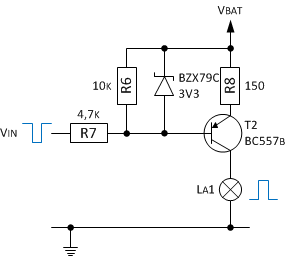
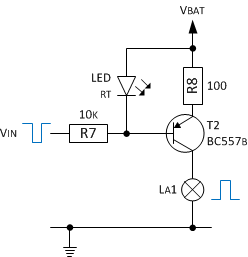
Update current limiter

Changed region(s): [[0.1976, 0.0, 1.0, 1.0], [0.0, 0.4688, 0.1976, 0.5625]]

diff --git a/pages/kontrollanzeige_1.md b/pages/kontrollanzeige_1.md
@@ -48,7 +48,7 @@ Zur Anwendung kommt ein Transistor Typ BC557B (Datenblatt: [BC560.pdf](https://w
 
 Die Steuerspannungen Vbe am Transistor bezieht sich bei einem PNP-Transistor auf die positive Versorgungsspannung und nicht auf Masse. Ein PNP immer schaltet dann durch, wenn Vbe die Schaltschwelle unterschreiten, also Vin um Vbe kleiner ist als die Spannung Ve am Emitter.
 
-Der Basiswiderstand R7 berechnet sich aus (Vbat-Vbe) / Ib. Etwas versteckt bei den Daten und der Kennlinie zu Vce(sat) (der Kollektor-Emitter-Sättigungsspannung) findet man eine Referenzwert für die Sättigung von Ic = 20*Ib. D.h. gerechnet wird mit einer Stromverstärkung in Sättigung von 20. Da nur kleine Ströme fließen (Ic < 10 mA und somit Ib < 0,5 mA) wird Vce(sat) mit dem im Datenblatt angegeben Wert von 90mV angesetzt.
+Der Basiswiderstand R7 berechnet sich aus (Vbat-Vbe) / Ib. Etwas versteckt bei den Daten und der Kennlinie zu Vce(sat) (der Kollektor-Emitter-Sättigungsspannung) findet man eine Referenzwert für die Sättigung von Ic = 20*Ib. D.h. gerechnet wird mit einer Stromverstärkung in Sättigung von 20. Da nur kleine Ströme fließen (Ic < 10 mA und somit Ib < 0,5 mA) wird Vce(sat) mit dem im Datenblatt angegeben Wert von 0,3V angesetzt.
 
 Die Versorgungsspannung vom Instrument beträgt 10V bis 15V. Etwa 0,7V fallen an der Basis-Emitter-Strecke ab (Vbe aus Kennlinie des Datenblatt für den BC557B geschätzt), also wird bei einer niedrigen Versorgungsspannung von 10V für eine vernünftige Durchschaltung ein passender Widerstand R7 benötigt.
 
@@ -71,17 +71,21 @@ In unserem im Anwendungsfall verwenden wir für R6 ein Widerstand von 3,3kOhm.
 
 ![Schalten der Versorgungsspannung Abb. 2](../images/Schalten_der_Versorgungsspannung_2.png)
 
-Da die Anschaltung von La1 erfolgt extern und der PNP-Transistor bei einer Fehlbeschaltung vom Kollektor nicht zerstört wird, wird eine Strombegrenzung eingebracht. Der Widerstand R8 soll bei einem _Kurzschluss_ von La1 den maximalen Kollektorstrom Ic(max) begrenzen. Dieser beträgt laut Datenblatt 100mA. 
+Da die Anschaltung von La1 erfolgt extern und der PNP-Transistor bei einer Fehlbeschaltung vom Kollektor nicht zerstört wird, wird eine Strombegrenzung eingebracht. Widerstand R8 und LED begrenzen den maximalen Kollektorstrom Ic(max) von La1 z.B bei _Kurzschluss_. Warum überhaupt eine LED? Durch Einsatz einer LED anstatt einer Z-Diode kann R8 klein gehalten werden. Zudem hat eine Konstantstromquelle mit LED einen kleineren Temperaturdrift und somit eine bessere Konstanz von Ic als z.B. zwei Dioden, die in Flussrichtung betrieben werden. 
 
-Z-Diode und R7 bilden an der Basis von T2 eine konstante Spannung von Vz = 3,3V. Die zugehörige Basis-Emitter-Spannung Vbe von T2 wird mit 0,9V angesetzt. Der maximale Strom wird erreicht, wenn der Spannungsabfall an R8 den Wert von Vz - Vbe erreicht. Der Mindestwiderstand R8 für einen vorgebenen maximalen Strom von 20mA, lässt sich wie folgt berechnen:
+Die rote LED bewirkt, dass an der Basis von T2 nur eine maximale Spannung von Vf = 1,7V erreicht werden kann. Die zugehörige Basis-Emitter-Spannung Vbe von T2 wird mit 0,7V angesetzt. Der maximale Strom wird erreicht, wenn der Spannungsabfall an R8 den Wert von 1V (Vf - Vbe) erreicht. Der Widerstand R8, für einen vorgebenen maximalen Strom von 10mA, lässt sich wie folgt berechnen:
 
-    R8(min) = (Vz - Vbe) / Ic(max) = 3,3V – 0,9V / 25mA = 120 Ohm
+    R8(min) = (Vf - Vbe) / Ic(max) = 1,7V – 0,7V / 10mA = 100 Ohm
 
-Für R8 wird ein Wert von 150 Ohm gewählt, der den Strom Ic(max) auf 16 mA begrenzt. Die zugehörige Verlustleistung für R8 bei _Kurzschluss_ beträgt:
+Für R8 wird ein Wert von 100 Ohm gewählt, der den Strom Ic(max) auf ca. 10..11 mA begrenzt (Vbe ca. 0,6..0,7 V). Die maximale Verlustleistung für R8 unter _Last_ beträgt weniger als 1/4 Watt:
 
-    Pmax = (Vbat(max) - Vce(sat)) * Ic = (15V – 90mV) * 16mA = 226mW
+    Pmax = (Vbat(max) - Vce(sat)) * Ic = (15V – 0,3V) * 10mA = 0,15W
 
-Die Kontrollanzeige La1 soll bei Verlust des Öldrucks zur Anzeige kommen. Der Öldrucksensor S1 schaltet gegen Masse. Die Integration des Sensors erfolgt über einfach unter Nutzung einer Schutzdiode.
+Die Verlustleistung am Transistor beträgt bei _Kurzschluss_ ebenfalls nur ca. 0,15W. Die Berechnung erfolgt über die Kollektor-Emitter-Spannung Vce = Vbat(max) - V(R8) bei maximalen Strom Ic(max):
+
+    Pmax = (Vbat(max) - V(R8)) * Ic = (15V – 1V) * 10mA = 0,15W
+
+Die Kontrollanzeige La1 soll bei Verlust des Öldrucks zur Anzeige kommen. Der Öldrucksensor S1 schaltet gegen Masse. Die Integration des Sensors erfolgt unter Nutzung einer Schutzdiode.
 
 ## Invertieren der Messstufe
 Es soll mit _positiver_ Logik geschaltet werden, also fügen wir eine NPN-Schaltstufe hinzu, die den Eingang der PNP-Schaltstufe versorgt. Zur Anwendung kommt der passende NPN-Transistor Typ BC547B (Datenblatt: [BC547.pdf](https://www.fairchildsemi.com/datasheets/BC/BC547.pdf)).
@@ -99,11 +103,9 @@ Der daraus resultierende maximale Widerstand für R3 und R4 lässt sich über fo
 
     (R3+R4)max = (Vbat(max) – Vbe) / Ib(min) = (15V – 0,7V) / 0,3mA = 48k
 
-Der Widerstandswert R3 beträgt 4,7kOhm (siehe Messstufe). Für R4 wählen wir den nächst passenden Widerstandswert von 39kOhm aus der E12 Reihe, der den oben genannten Maximalwert nicht übersteigt.
+Der Widerstandswert R3 beträgt 4,7kOhm (siehe Messstufe). Für R4 wählen wir den nächst passenden Widerstandswert von 33kOhm aus der E12 Reihe, der den oben genannten Maximalwert nicht übersteigt.
 
-Der Widerstand R5 vermeidet, dass der Transistor bei starken Störeinstrahlungen teilweise leitet. Je größer der Widerstand R5, umso empfindlicher ist die Schaltung gegen Umwelteinflüsse. Je niedriger dieser Widerstand, desto mehr Strom verbraucht die Schaltung im durchgesteuerten Zustand. Allgemeinen hat sich ein Wert von 10k bis 100kOhm (oder evtl. sogar mehr) bewährt. In unserem im Anwendungsfall verwenden wir für R5 ein Widerstand von 10kOhm.
-
-R5 hat zusammen mit R3 und R4 auch den Zweck die Schaltschwelle über den Transistor zu erhöht, was hier bedeutet, dass die Schaltschwelle an Vin Richtung Versorgungsspannung verschoben wird. Die zugehörige Schaltschwelle Ves lässt wie folgt errechnen:
+R5 hat zusammen mit R3 und R4 den Zweck die Schaltschwelle über den Transistor zu erhöhen, was hier bedeutet, dass die Schaltschwelle an Vin Richtung Versorgungsspannung verschoben wird. Der Widerstand R5 vermeidet auch, dass der Transistor bei starken Störeinstrahlungen teilweise leitet. Die zugehörige Schaltschwelle Ves lässt wie folgt errechnen:
 
     Ves = ((R3 + R4) / R5 + 1) * Vbe = ((4,7k + 33k) / 10k + 1) * 0,7V = 4,5V
 
@@ -118,6 +120,7 @@ Die Differenz zur Schaltschwelle der Messstufe (bei _Low_ definiert über Vka = 
 - KHD-Homepage von Karl-Heinz Domnick; [Transistor-Schaltungen](http://www.domnick-elektronik.de/elekts1.htm)
 - DL6GL von Georg Latzel; [Schalten mit Transistoren](http://dl6gl.de/grundlagen/schalten-mit-transistoren)
 - Elektronik-Kompendium; [Schalten und Steuern mit Transistoren I](http://www.elektronik-kompendium.de/public/schaerer/powsw1.htm)
+- Elektronik-Kompendium; [Transistor-LED-Konstantstromquelle](https://www.elektronik-kompendium.de/public/schaerer/currled.htm)
 
 ### Nächste Seite
 Weiter geht's mit [Lade- und Öldruckkontrollanzeige mit CMOS](kontrollanzeige_2.html).

diff --git a/pages/kontrollanzeige_2.md b/pages/kontrollanzeige_2.md
@@ -39,7 +39,7 @@ Der nächst passende Wert für R2 beträgt 27k. Der Widerstand R1 wird unter Ver
     R1 = 33k * (2 * 11,9V / 5V - 1) - 27k
     R1 = 97,1k
 
-Für den Widerstand R1(+R4) wird ein Wert von 100k(+1k) genommen, dieser definiert mit den oben genannten Widerständen R2 und R3 die nun _tatsächlichen_ Umschaltpunkte 12,1V (_Low_) und 13,3V (_High_). Für die Bestimmung der realen Umschaltpunkte können folgende Formeln genutzt werden:
+Für den Widerstand R1(+R6) wird ein Wert von 100k(+1k) genommen, dieser definiert mit den oben genannten Widerständen R2 und R3 die nun _tatsächlichen_ Umschaltpunkte 12,1V (_Low_) und 13,3V (_High_). Für die Bestimmung der realen Umschaltpunkte können folgende Formeln genutzt werden:
 
     V(low) = Vref * (R1 + R2 + R3) / (R2 + R3)
     V(low) = 5V * (100k + 27k + 33k) / (27k + 33k)
@@ -57,10 +57,6 @@ Die Kontrollanzeige _La1_ soll (wie bei der Diskret aufgebauten Schaltung auch) 
 ## Gesamtschaltung Lade-/Öldruckkontrollanzeige
 Zur Anwendung kommt der Timer-Baustein TLC556I (Datenblatt: [tlc556.pdf](http://www.ti.com/lit/gpn/tlc556)), welcher zwei RC-Timer mit gemeinsamer Spannungsvorsorgung hat und für einen Temperaturbereich von -40 bis 85°C vorgesehen ist. An den Betriebsspannungsanschlüssen darf eine Spannung für Vcc (= Betriebsspannung) bis +18V (empfohlen 2 bis 15V) und an den Eingängen _Treshold_, _Trigger_, _Control Voltage_ und _Reset_ eine maximale Spannung gleich der Betriebsspannung angelegt werden. 
 
-Die gesamte Schaltung für die Kontrollanzeige erhalt noch eine zusätzliche _Endstufe_ zur Schaltung der Lampe:
-
-![Schalten der Versorgungsspannung](../images/Schalten_der_Versorgungsspannung_3.png)
-
 Die Schaltug wurde durch eine nachgelagerte [Astabile Kippstufe](http://de.wikipedia.org/wiki/Multivibrator#Astabiler_Multivibrator_mit_NE555) ergänzt, damit die Anzeige nicht nur einfach leuchtet sondern blinkt.
 
 ![Astabile Kippstufe (555)](../images/Astabile_Kippstufe_555.png)
@@ -69,7 +65,11 @@ Zudem wurde die Schaltung angepasst, sodass zwischen den beiden unterschiedliche
 
 Die Beeinflussung der Frequenz erfolgt am Eingang _Control Voltage_ der Astabile Kippstufen, welche vom _Discharge_ Ausgang der Unterspannungschaltung angesteuert wird. Zusätzlich wurde die Anschaltung des Ödruckschalters nicht wie weiter oben an die Unterspannungschaltung sondern, mittels einer einfachen Logik an die nachgelagerten Kippstufe angeschaltet. 
 
-Bleibt noch zu erwähnen, dass beim Ereignis _Öldruckverlust_ die Kontrolllampe schneller blinkt, als beim Ereignis _Störung Generator_ und dass das Ereignis _Störung Generator_ Vorrang hat. In der fertigen Schaltung wird zusätzlich noch ein Stützkondensator C4 von 100nF direkt am SA556 zwischen Speisespannung und Masse eingesetzt.
+Bleibt noch zu erwähnen, dass beim Ereignis _Öldruckverlust_ die Kontrolllampe schneller blinkt, als beim Ereignis _Störung Generator_ und dass das Ereignis _Störung Generator_ Vorrang hat. In der fertigen Schaltung wird zusätzlich noch ein Stützkondensator von 100nF direkt am Timer-IC zwischen Speisespannung und Masse eingesetzt.
+
+Die gesamte Schaltung für die Kontrollanzeige erhält noch eine (bereits bekannte) _Schutzschaltung_ zur Anschaltung der Lampe La1 (siehe [hier](kontrollanzeige_1.html)). Der Abgriff erfolgt daher nicht am Ausgang _Output_ sondern am [Open Collector Ausgang](http://de.wikipedia.org/wiki/Open-Collector-Ausgang) _Dicharge_:
+
+![Schalten der Versorgungsspannung](../images/Schalten_der_Versorgungsspannung_3.png)
 
 ## Quellen und weiterführende Literatur
 

diff --git a/pages/benzinstandsanzeige.md b/pages/benzinstandsanzeige.md
@@ -4,9 +4,9 @@ title: Benzinstandsanzeige Ducati
 description: Universal LCD Motorrad Tachometer
 ---
 
-Die Guzzi besitzt keinen Geber und keine Reservelampe. Da ein offener Anschluss und Werte größer 90 bzw. 500 Ohm zu einem Blinken der Anzeige des Kombiinstrumentes führen, muss der Anschluss für die Tankanzeige passend beschaltet werden, da sonst eine blinkende Tankanzeige am Instrument stört. Die einfachste Methode ist es, dass Instrument auf einen Sensor von 500 Ohm umzuprogrammieren und mittels 470 Ohm Widerstand den Anschluss für die Tankanzeige gegen Masse zu schalten. Es wird dann nur der untere Balken angezeigt.
+Die Guzzi besitzt keinen Geber und keine Reservelampe. Ein offener Anschluss und Werte größer 90 bzw. 500 Ohm bringen die Füllstandsanzeige des Kombiinstrumentes zum Blinken. Der Anschluss für die Tankanzeige muss daher passend beschaltet werden, da sonst eine blinkende Tankanzeige am Instrument stört. Die einfachste Methode ist es, dass Instrument auf einen Sensor von 500 Ohm umzuprogrammieren und mittels 470 Ohm Widerstand den Anschluss für die Tankanzeige gegen Masse zu schalten. Es wird dann nur der untere Balken angezeigt.
 
-Die Ducati Monster verwendet ein Heißleiter (abk. NTC) als Benzinstandgeber. Der Sensor wird bei ausreichend gefüllten Tank vom Benzin umflossen und ist dadurch kalt. Der innenliegende Heißleiter leitet somit schlecht und verhindert so das Einschalten der zugehörigen Kontrolllampe im Instrument. Sofern der Sensor nicht ausreichend von Benzin umflossen wird, erwärmt sich der Heißleiter (langsam) durch den Stromfluss und verliert (almählich) seinen hohen Anfangswiderstand. 
+Die Ducati Monster verwendet ein Heißleiter (abk. NTC) als Benzinstandgeber. Der Sensor wird bei ausreichend gefüllten Tank vom Benzin umflossen und ist dadurch kalt. Der innenliegende Heißleiter leitet somit schlecht und verhindert so das Einschalten der zugehörigen Kontrolllampe im Instrument. Sofern der Sensor nicht ausreichend von Benzin umgeben ist, erwärmt sich der Heißleiter (langsam) durch den Stromfluss und verliert (almählich) seinen hohen Anfangswiderstand.
 
 Aufgrund der Kaltleitereigenschaft einer Glühlampe kommt es zu einem zügigen Umschalten, sofern die Glühwendel auf Betriebstemperatur aufgeheizt ist. Mit steigender Temperatur erhöht sich der elektrische Widerstand und somit der Spannungsabfall an der Glühlampe, womit die Glühlampe die volle elektrische Leistung erhält. 
 
